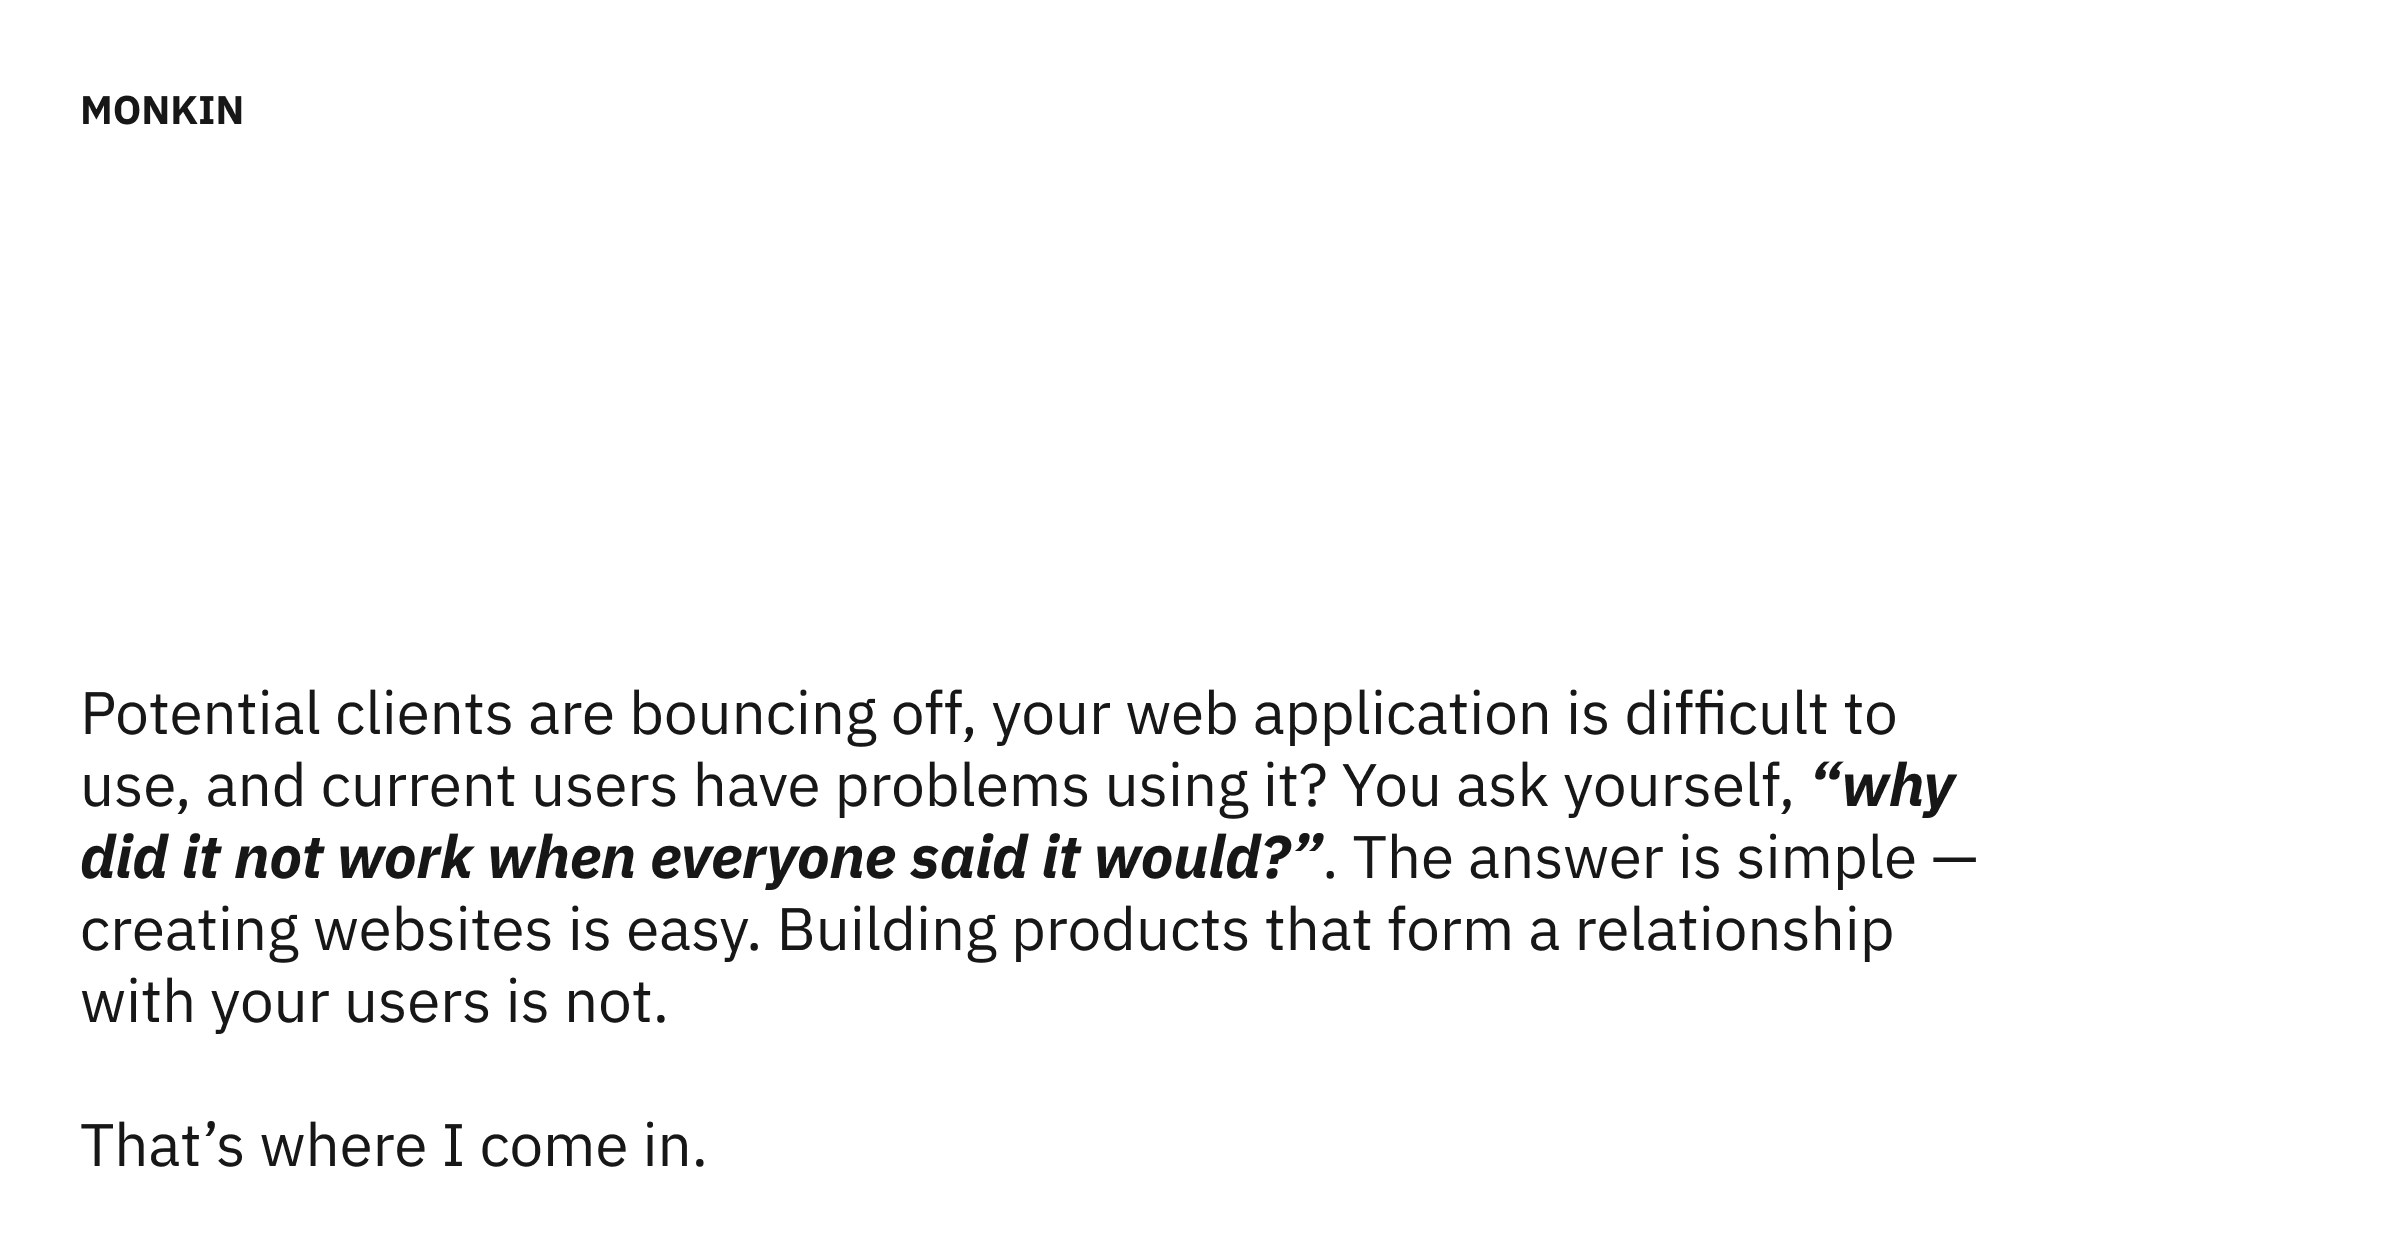
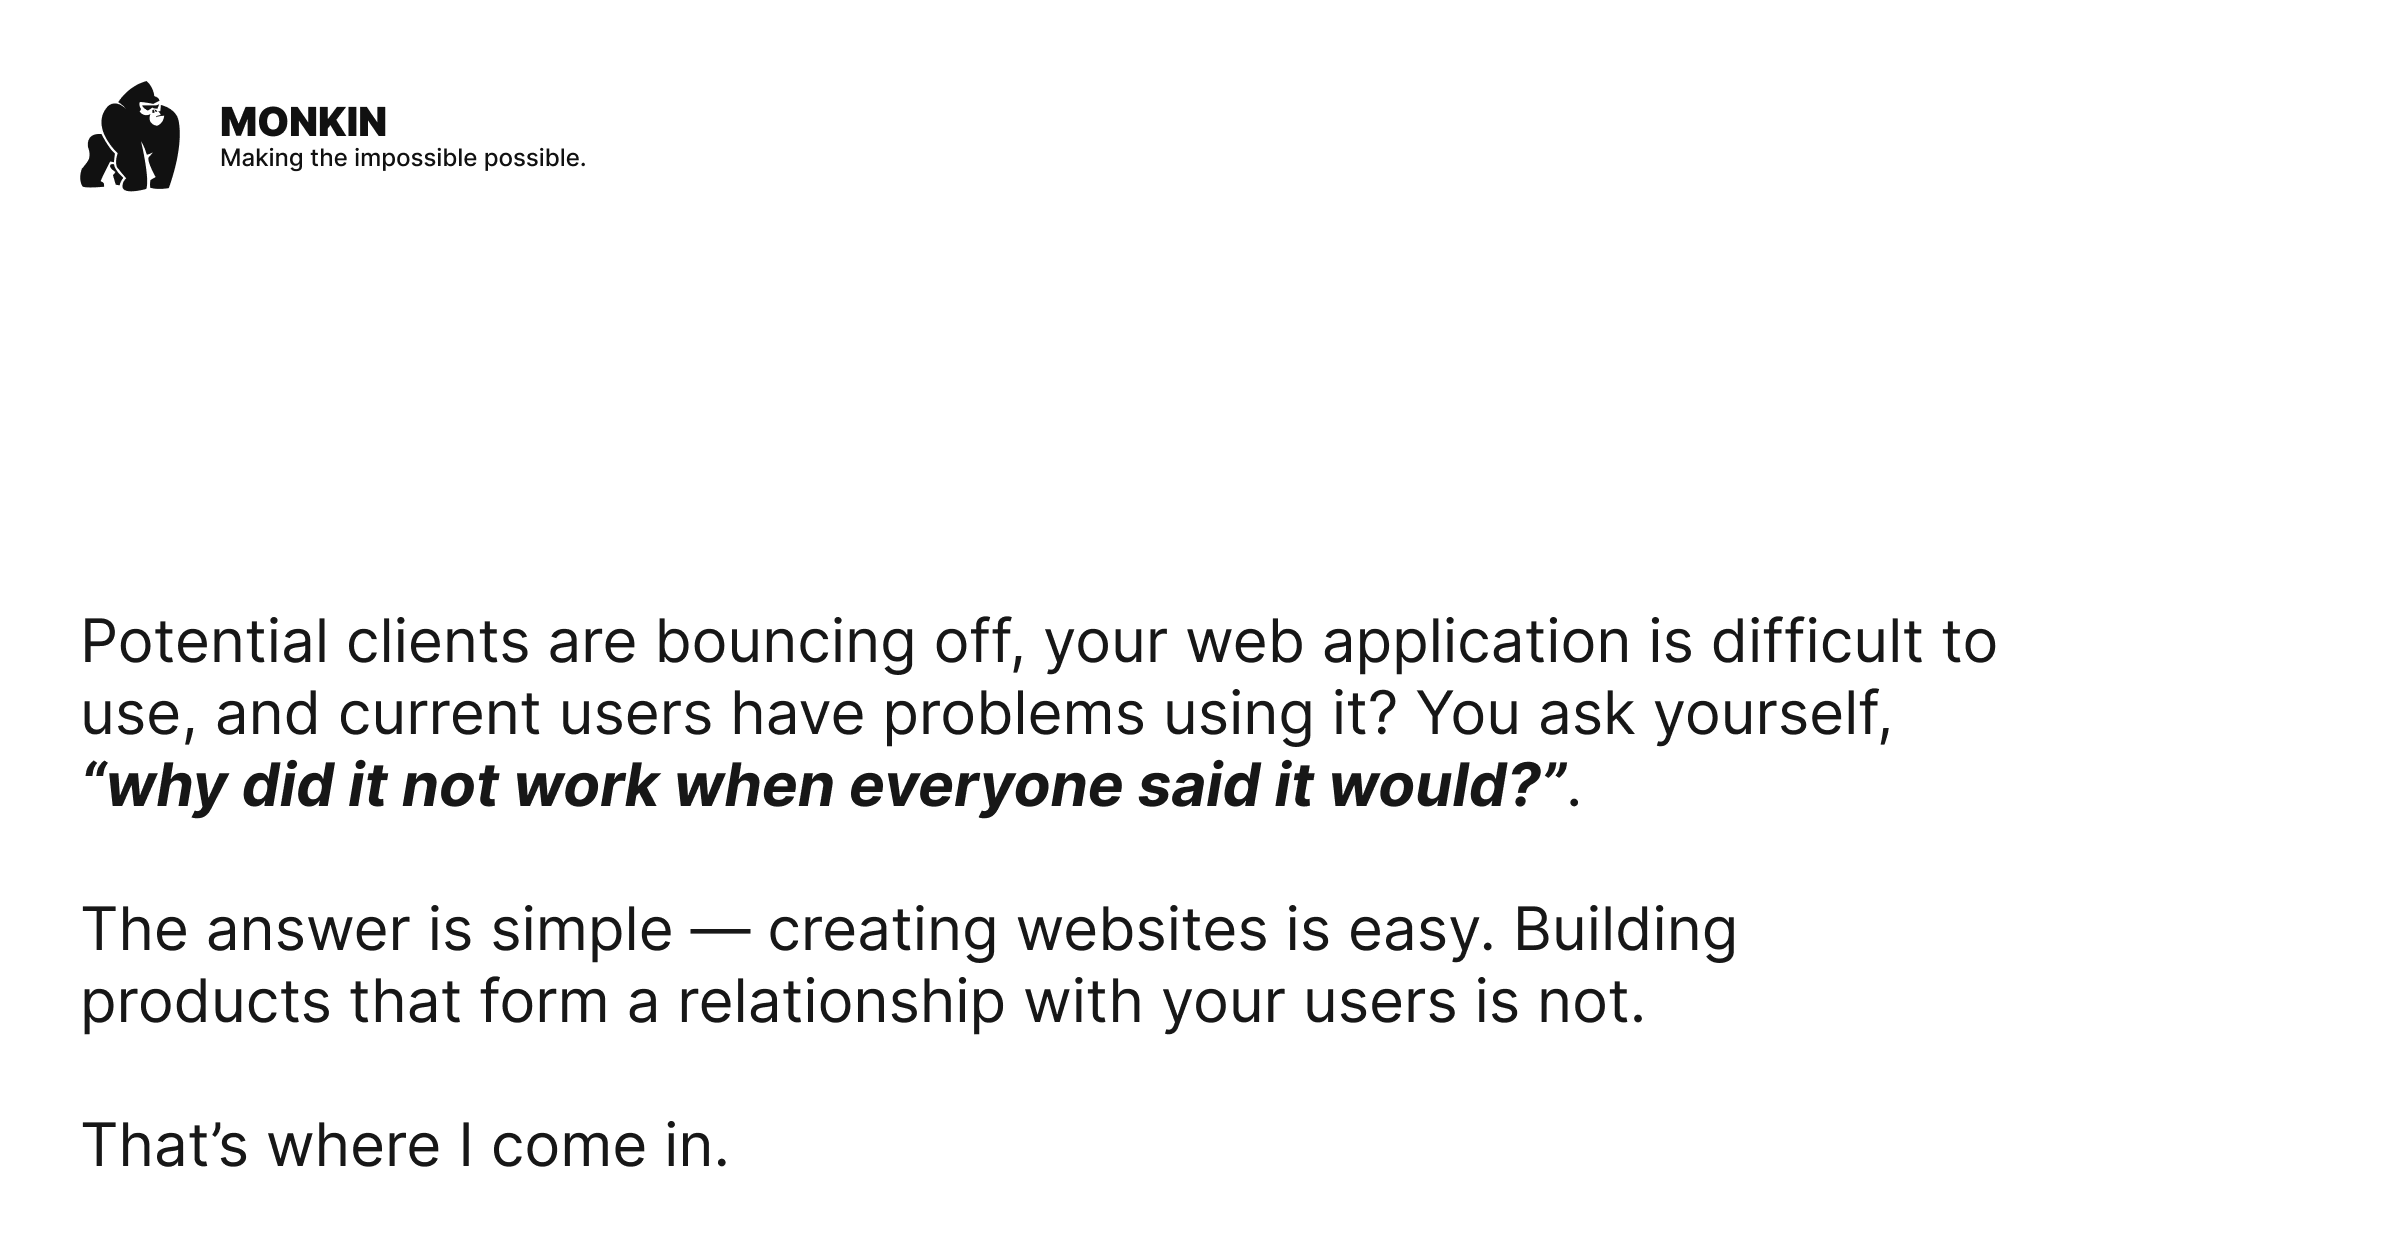
Update og image before moving to @vercel/og

Changed region(s): [[0.0312, 0.4952, 0.8438, 0.8357], [0.0312, 0.0619, 0.25, 0.1548], [0.0312, 0.8976, 0.3125, 0.9286]]

diff --git a/src/app/layout.tsx b/src/app/layout.tsx
@@ -25,7 +25,7 @@ export const metadata = {
   },
   twitter: {
     card: "summary_large_image",
-    images: "https://monkin.co/static/og.jpg",
+    images: "https://monkin.co/static/og.png",
     creator: "@pc__ho",
   },
 };
